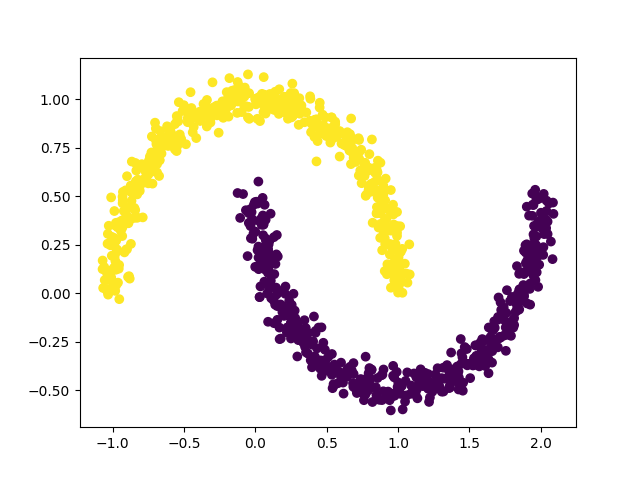
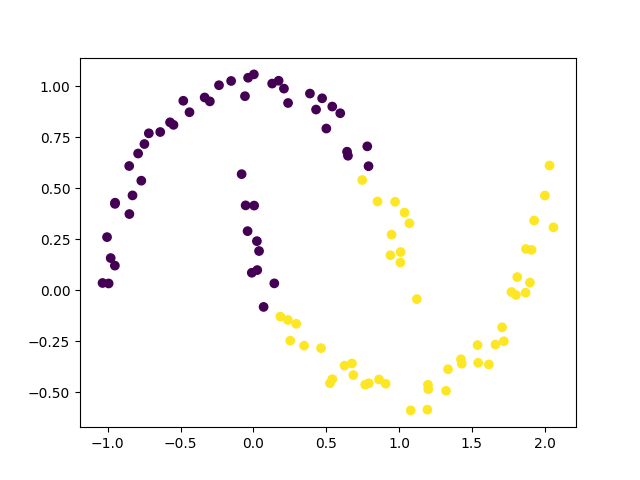
have a version of the ginzburg-landau algo - not working perfectly yet very slow

diff --git a/main.py b/main.py
@@ -8,7 +8,7 @@ matplotlib.use('Agg')
 
 from sklearn.datasets import make_moons
 from sklearn.cluster import KMeans, SpectralClustering
-n = 1000
+n = 100
 X, Y = make_moons(n_samples=n, noise=0.05)
 
 X = np.ndarray.tolist(X)
@@ -28,7 +28,7 @@ for i in newArr:
 
 moonsGraph = util.makeMoonsGraph(X)
 moonsGraph = util.n_nearest_Neighbours(moonsGraph,10)
-Lnorm = nx.laplacian_matrix(moonsGraph)
+Lnorm = nx.normalized_laplacian_matrix(moonsGraph)
 #matrix.A returns matrix view
 
 #print(L.toarray())
@@ -47,10 +47,7 @@ Key = []
 eigens = util.sortEigens(eigvalues, eigVectors)
 #for i, val in enumerate(eigens["vectors"]):
   #  print(i, ": ", eigens["values"][i], val)
-val1 = Lnorm * eigens["vectors"][2]
-val2 = eigens["values"][2] * eigens["vectors"][2]
-print(val1)
-print(val2)
+
 
 c = 1
 epsilon = 2
@@ -76,25 +73,7 @@ iterations = 100
     #print(d)
     #input()
 
-output = []
-'''
-for i in eigens["key"]:
-    print( i, util.segment(util.u_nth(a, eigens["vectors"], i)))
-    output.append(util.segment(util.u_nth(a, eigens["vectors"], i)))
-'''
-for i in range(len(eigens["vectors"][1])):
-    output.append(util.segment(eigens["vectors"][1][i]))
-'''
 
-for i in range(len(eigens["vectors"][1])):
-    output.append(util.segment(eigens["vectors"][1][i]))
-
-total = 0
-for i in eigens["vectors"][0]:
-    total += i**2
-
-print(total)
-'''
 #init a
 ''' 
 for i,eig in enumerate(eigens):
@@ -156,21 +135,13 @@ for r in X:
     new_x.append(r[0])
     new_y.append(r[1])
 
-kmeans = KMeans(n_clusters=2, n_init=10)
-
-kmeans.fit(eigens["vectors"][1].reshape(-1, 1))
-plt.scatter(new_x, new_y, c=kmeans.labels_)
+#seg = util.second_eigenvector_segmentation(eigens["vectors"][1])
+nodes = list(moonsGraph.nodes)
+seg = util.ginzburg_landau_segmentation(nodes, eigens["values"], eigens["vectors"], 0.1, 1, 2, 500)
+plt.scatter(new_x, new_y, c=seg)
 plt.savefig("moons.png")
 
-total = 0
-for i, x in enumerate(Y):
-    if kmeans.labels_[i] == x:
-        total += 1
-acc = total / len(Y)
-print(acc)
-#spec = SpectralClustering(n_clusters=2, affinity='nearest_neighbors')
 
-#print(new_data)
 '''
 a = 0
 highestVal = 0

diff --git a/helper.py b/helper.py
@@ -170,8 +170,9 @@ def b_init(nodes, eigenVectors):
 #e b(0)k = int [u0(x)]^^3 dot φk(x) dx.
 def b_nth(nodes, eigenVectors, a_k):
     b = []
-    total = 0
+
     for k in range(len(eigenVectors)):
+        total = 0
         for x in range(len(nodes)):
             total += (u_nth(a_k, eigenVectors, x)) * eigenVectors[k][x]
         b.append(total)
@@ -189,8 +190,8 @@ def d_init(λ):
 
 def d_nth(nodes, eigenVectors, a_k):
     d = []
-    total = 0
     for k in range(len(eigenVectors)):
+        total = 0
         for x in range(len(nodes)):
             total += (u_nth(a_k, eigenVectors, x) - u_initial(eigenVectors[1], x)) * eigenVectors[k][x]
         d.append(total)
@@ -210,3 +211,33 @@ def segment(x):
         return -1
     else:
         return 1
+    
+
+def second_eigenvector_segmentation(φ_2):
+    kmeans = KMeans(n_clusters=2, n_init=10)
+
+    kmeans.fit(φ_2.reshape(-1, 1))
+    
+    return kmeans.labels_
+
+def ginzburg_landau_segmentation(nodes, eigenValues, eigenVectors, dt, c, epsilon, iterations):
+    segmentation = []
+    a_k = a_init(nodes, eigenVectors)
+    b_k = b_init(nodes, eigenVectors)
+    d_k = d_init(eigenVectors)
+    D_k = D_init(dt, eigenValues, c, epsilon)
+    for iteration in range(0,iterations):
+        print(iteration, " -- started")
+        a_k = a_nth(a_k,b_k,d_k,D_k,dt,epsilon,c)
+        print(iteration, " -- a_k Done")
+        b_k = b_nth(nodes, eigenVectors, a_k )
+        print(iteration, " -- b_k Done")
+        d_k = d_nth(nodes, eigenVectors, a_k )
+        print(iteration, " -- Done")
+
+    
+    for node in nodes:
+        segmentation.append(segment(u_nth(a_k, eigenVectors, node)))
+    for a in a_k:
+        print(a)
+    return segmentation
